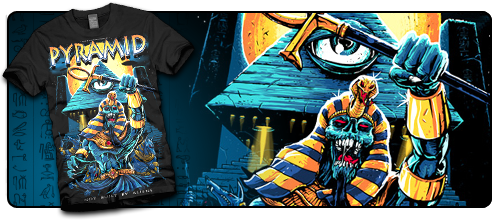
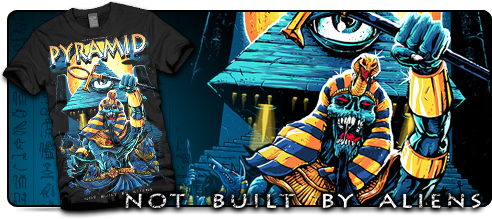
added not built by aliens limited edition t-shirt link for online purchase

diff --git a/pylonshq/templates/home/inside.rst b/pylonshq/templates/home/inside.rst
@@ -6,6 +6,12 @@ contributed to making this release possible. Read the official announcement
 on `Google Groups 
 <http://groups.google.com/group/pylons-devel/browse_thread/thread/2e0c1d669924ea3f>`_.
 
+Pyramid - Not Built By Aliens T-Shirt
+=====================================
+
+`Pyramid`_ - Not Built By Aliens T-Shirt limited edition is now available 
+for online purchase via `the artist store <http://laflamme.storenvy.com/products/66831-pyramid-not-built-by-aliens-t-shirt>`_.
+
 Pyramid - Not Built By Aliens design
 ====================================
 
